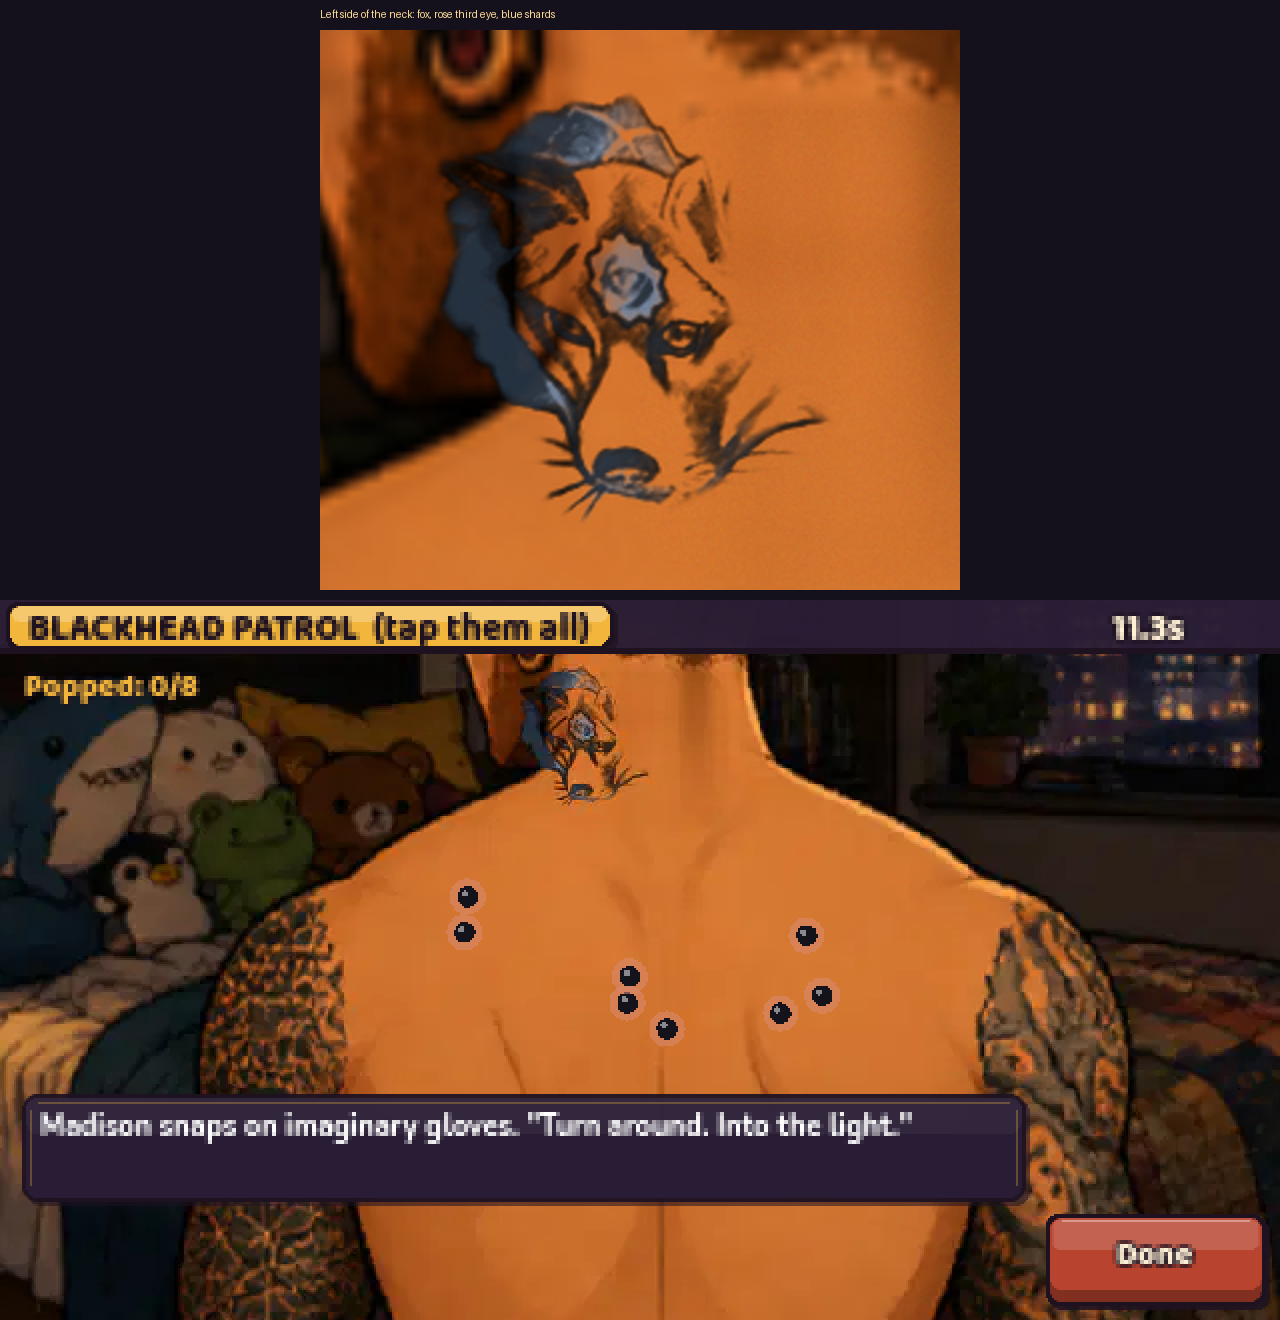
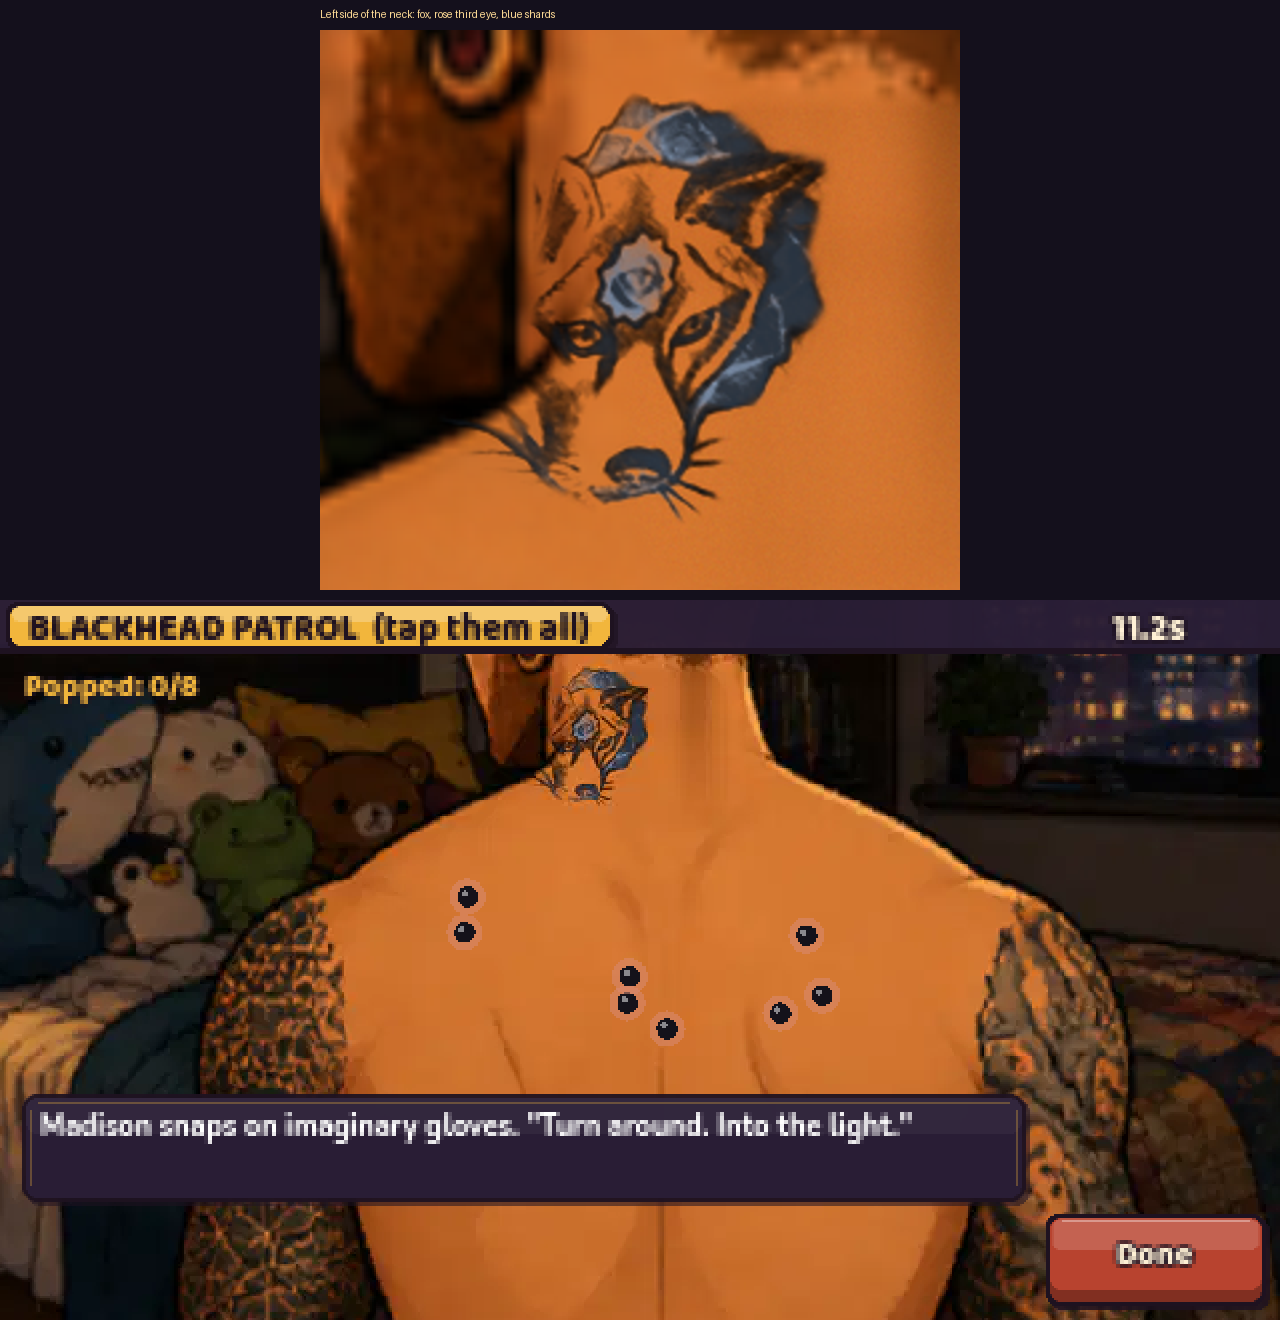
Blackhead Patrol: fox tattoo faces the same way as Duff's real one
Claude-Session: https://claude.ai/code/session_01V3sbxJsAi1qi4fbjXE9GSk

Changed region(s): [[0.3438, 0.0621, 0.6562, 0.4038], [0.4062, 0.497, 0.5312, 0.6212], [0.9062, 0.4659, 0.9375, 0.497]]

diff --git a/CLAUDE.md b/CLAUDE.md
@@ -150,7 +150,7 @@ and `docs/handoffs/*.md`. Work queue detail: `QUEUE.md`.
 - **Buttons (Nov 15):** three roles only, applied in `UiStyle.button` via `btn_role()`: `BTN_MAIN` teal (do the thing), `BTN_ALT` plum (options/toggles; any low-saturation colour), `BTN_EXIT` red for labels starting back/close/leave/done/stop/quit/cancel/give up/nope/exit. Callers' own colours collapse into these; cards: first option MAIN, rest ALT.
 
 - **Seams (Nov 15):** symphony bus run draws `bg_symphony_street` (Canva, master Drive `bg_symphony_street_v1.png`) cropped 30 units from the top so its asphalt sits on the run lane (y 84-118); it ships in extra.pck like `bg_holland`. Plasma bag is a drawn pouch (`plasma._draw_bag`); the Akarui belt is steel slats between wood lips. Render: `docs/renders/seams_before_after.png`; ui audit has `akarui_belt`.
-- **Placeholder art + HUD (Nov 15, PR #100):** painted backdrops `bg_backwalk_bed` (Madison walks `BACK_X0..BACK_X1` on his painted back) and `bg_stealth_floor` (`stealth.FLOOR_SPLIT` stretches the mid floor so the painted bed sits under the goal column; code still draws creaky boards, cats, Duff). Masters in Drive "97 Gemini art drops". House name tags clamp under the HUD (`main.LABEL_TOP_MARGIN`), boss plate and touch level panel clear the buttons, size 4-5 UI text up one size. Blackhead Patrol draws `bg_blackheads_back` zoomed (`blackheads.ZOOM_SRC`); the neck tattoo on the LEFT side below the ear matches Duff's real one (realistic fox, pale blue rose third eye, blue geometric shards behind; lifted from his photo Nov 15, mirrored, nose pointing down toward the nape). Nape bare; v2 had a cartoon fox on the nape and Duff rejected it; the fixed 2560 master is in project files `renders/bg_blackheads_back_v3_master.png`.
+- **Placeholder art + HUD (Nov 15, PR #100):** painted backdrops `bg_backwalk_bed` (Madison walks `BACK_X0..BACK_X1` on his painted back) and `bg_stealth_floor` (`stealth.FLOOR_SPLIT` stretches the mid floor so the painted bed sits under the goal column; code still draws creaky boards, cats, Duff). Masters in Drive "97 Gemini art drops". House name tags clamp under the HUD (`main.LABEL_TOP_MARGIN`), boss plate and touch level panel clear the buttons, size 4-5 UI text up one size. Blackhead Patrol draws `bg_blackheads_back` zoomed (`blackheads.ZOOM_SRC`); the neck tattoo on the LEFT side below the ear matches Duff's real one (realistic fox, pale blue rose third eye, blue geometric shards behind; lifted from his photo Nov 15, same facing as the photo: shards toward the nape, nose down toward his shoulder; Duff rejected the mirrored version). Nape bare; v2 had a cartoon fox on the nape and Duff rejected it; the fixed 2560 master is in project files `renders/bg_blackheads_back_v3_master.png`.
 
 ## Next (in order)
 1. **Ask Duff for his and Brittany's playtest notes first** (iPhone + his Android). They outrank the rest.
